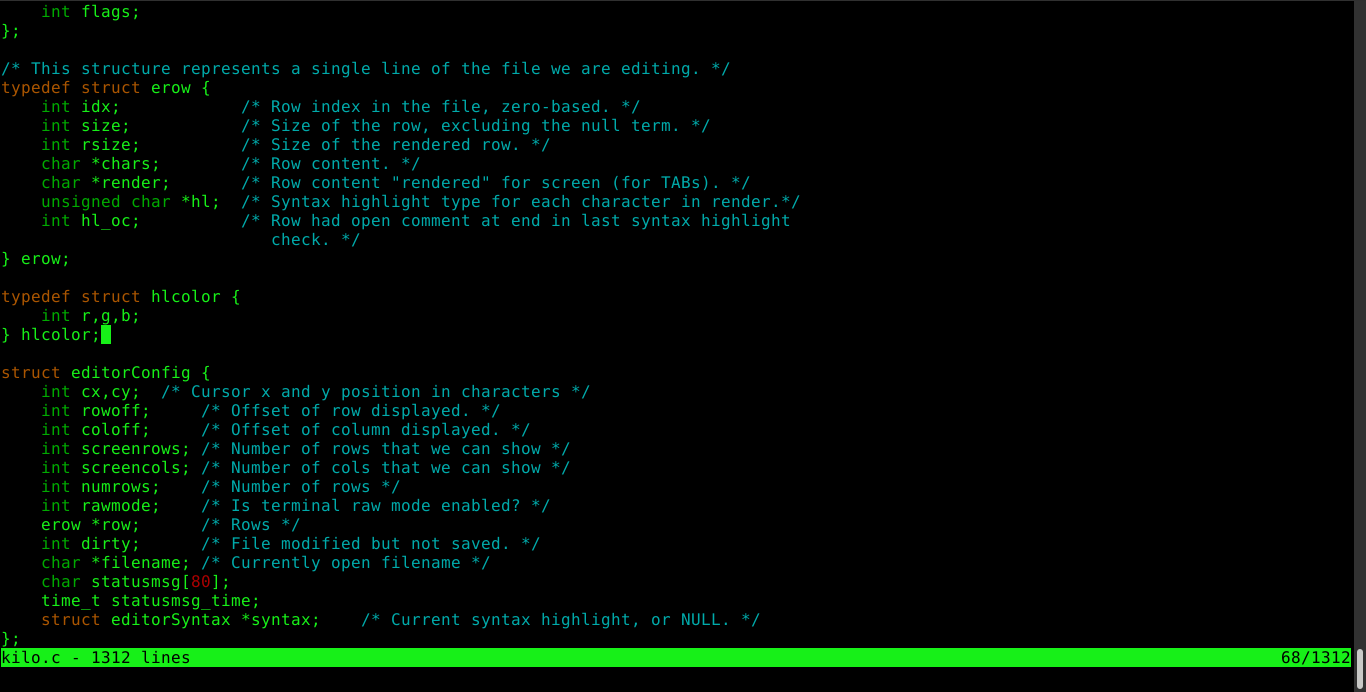
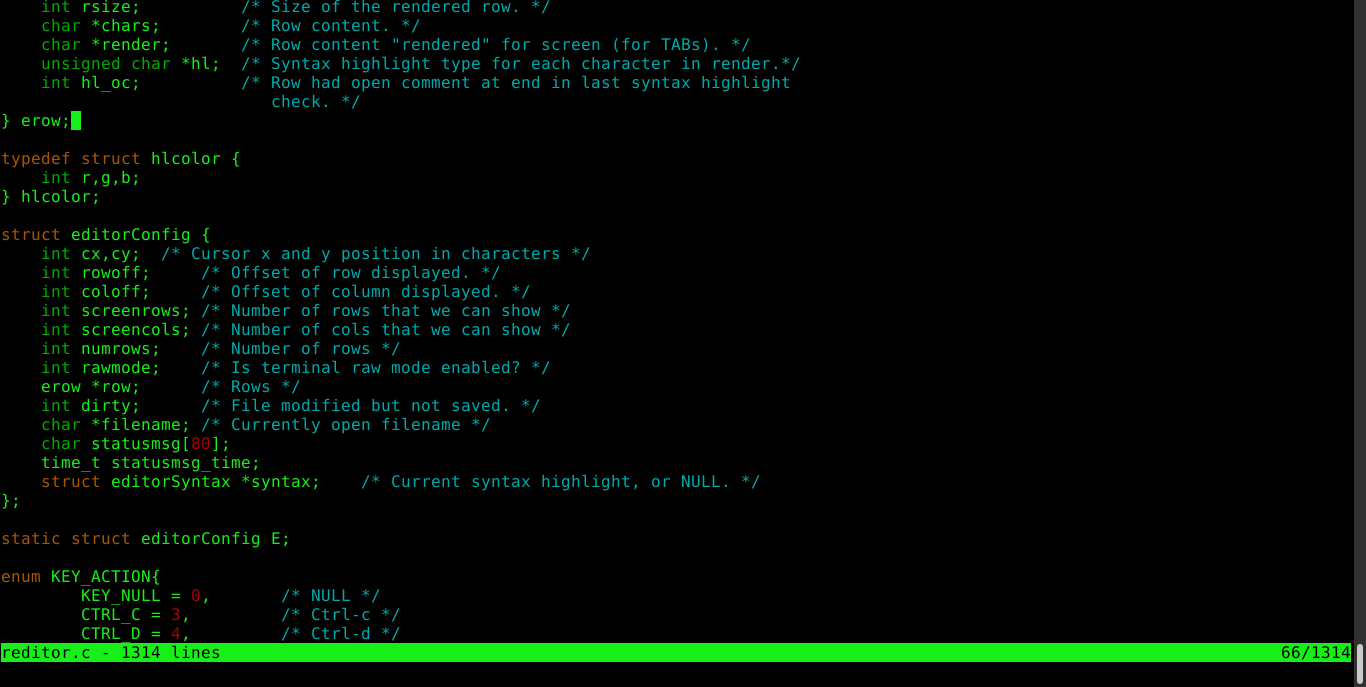
add screenshot in readme

Changed region(s): [[0.0, 0.0, 0.5842, 0.9782], [0.9224, 0.917, 0.9839, 0.9782], [0.4919, 0.6725, 0.5227, 0.7031]]

diff --git a/reditor.c b/reditor.c
@@ -1,12 +1,14 @@
-/* -----------------------------------------------------------------------
+/* 
+--------------------------------------------------------------------------
 
-Kilo -- A very simple editor in 
+reditor -- A very simple editor in 
         Does not depend on libcurses, directly emits VT100
         escapes on the terminal.
  
---------------------------------------------------------------------------*/
+-------------------------------------------------------------------------- 
+*/
 
-#define KILO_VERSION "0.0.1"
+#define REDITOR_VERSION "0.0.2"
 
 #ifdef __linux__
 #define _POSIX_C_SOURCE 200809L
@@ -565,7 +567,7 @@ void editorUpdateRow(erow *row) {
     unsigned long long allocsize =
         (unsigned long long) row->size + tabs*8 + nonprint*9 + 1;
     if (allocsize > UINT32_MAX) {
-        printf("Some line of the edited file is too long for kilo\n");
+        printf("Some line of the edited file is too long for reditor\n");
         exit(1);
     }
 
@@ -893,7 +895,7 @@ void editorRefreshScreen(void) {
             if (E.numrows == 0 && y == E.screenrows/3) {
                 char welcome[80];
                 int welcomelen = snprintf(welcome,sizeof(welcome),
-                    "Kilo editor -- version %s\x1b[0K\r\n", KILO_VERSION);
+                    "Reditor -- version %s\x1b[0K\r\n", REDITOR_VERSION);
                 int padding = (E.screencols-welcomelen)/2;
                 if (padding) {
                     abAppend(&ab,"~",1);
@@ -1008,10 +1010,10 @@ void editorSetStatusMessage(const char *fmt, ...) {
 
 /* =============================== Find mode ================================ */
 
-#define KILO_QUERY_LEN 256
+#define REDITOR_QUERY_LEN 256
 
 void editorFind(int fd) {
-    char query[KILO_QUERY_LEN+1] = {0};
+    char query[REDITOR_QUERY_LEN+1] = {0};
     int qlen = 0;
     int last_match = -1; /* Last line where a match was found. -1 for none. */
     int find_next = 0; /* if 1 search next, if -1 search prev. */
@@ -1052,7 +1054,7 @@ void editorFind(int fd) {
         } else if (c == ARROW_LEFT || c == ARROW_UP) {
             find_next = -1;
         } else if (isprint(c)) {
-            if (qlen < KILO_QUERY_LEN) {
+            if (qlen < REDITOR_QUERY_LEN) {
                 query[qlen++] = c;
                 query[qlen] = '\0';
                 last_match = -1;
@@ -1183,11 +1185,11 @@ void editorMoveCursor(int key) {
 
 /* Process events arriving from the standard input, which is, the user
  * is typing stuff on the terminal. */
-#define KILO_QUIT_TIMES 3
+#define REDITOR_QUIT_TIMES 3
 void editorProcessKeypress(int fd) {
     /* When the file is modified, requires Ctrl-q to be pressed N times
      * before actually quitting. */
-    static int quit_times = KILO_QUIT_TIMES;
+    static int quit_times = REDITOR_QUIT_TIMES;
 
     int c = editorReadKey(fd);
     switch(c) {
@@ -1254,7 +1256,7 @@ void editorProcessKeypress(int fd) {
         break;
     }
 
-    quit_times = KILO_QUIT_TIMES; /* Reset it to the original value. */
+    quit_times = REDITOR_QUIT_TIMES; /* Reset it to the original value. */
 }
 
 int editorFileWasModified(void) {
@@ -1293,7 +1295,7 @@ void initEditor(void) {
 
 int main(int argc, char **argv) {
     if (argc != 2) {
-        fprintf(stderr,"Usage: kilo <filename>\n");
+        fprintf(stderr,"Usage: reditor <filename>\n");
         exit(1);
     }
 

diff --git a/README.md b/README.md
@@ -1,9 +1,9 @@
-Kilo
+Reditor
 ===
 
-Kilo is a small text editor.
+Reditor is a small text editor.
 
-Usage: `kilo <filename>`
+Usage: `reditor <filename>`
 
 Keys:
 
@@ -16,5 +16,5 @@ Keys:
 !["Reditor screenshot"](Screenshot.png "Reditor screenshot") 
 
 
-Kilo does not depend on any library (not even curses). It uses fairly standard
+Does not depend on any library (not even curses). It uses fairly standard
 VT100 (and similar terminals) escape sequences.
